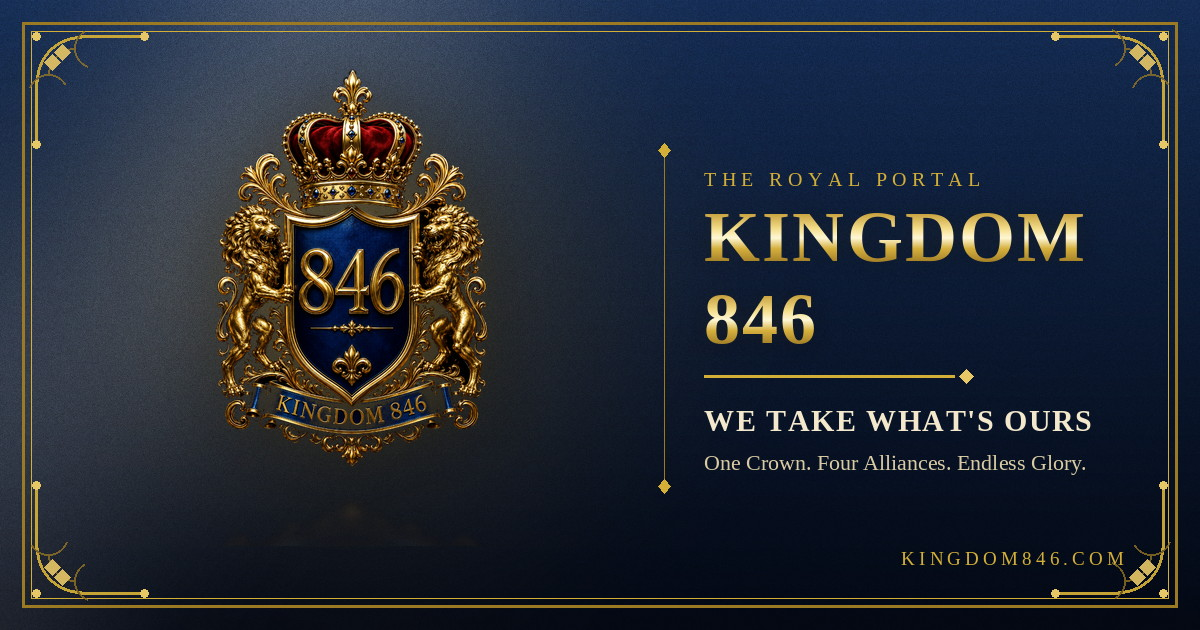
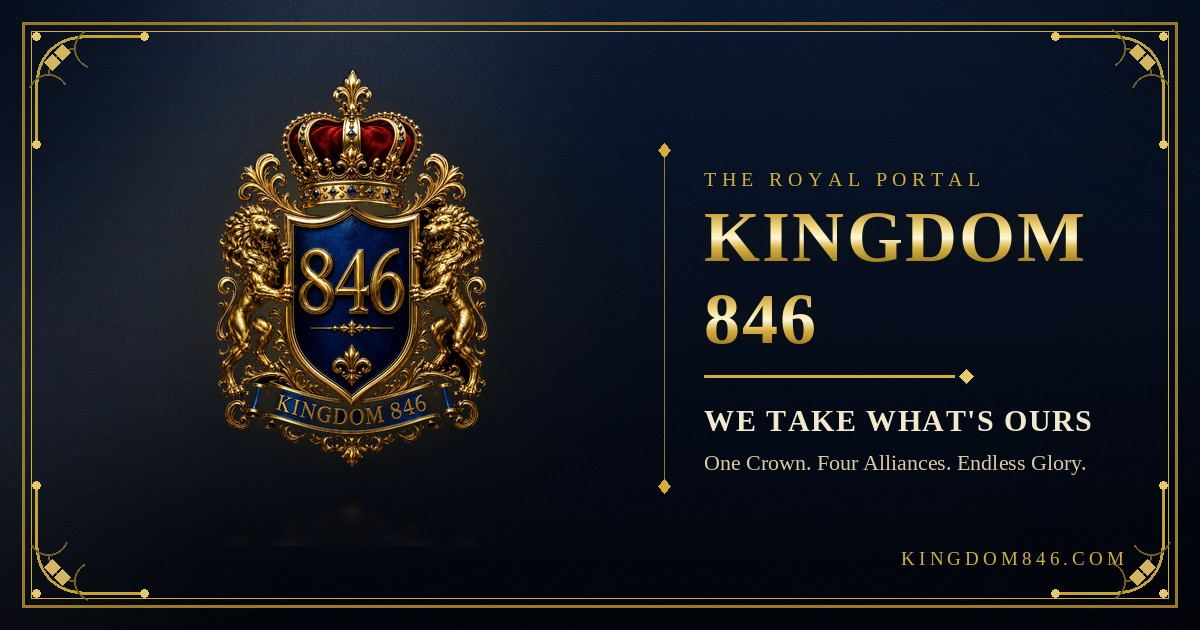
Take the share card darker
The field read as mid navy at full size but the look that carries at
thumbnail size -- which is the size a share card is actually seen at --
is near-black, with the crest and the gold as the only lit objects.

Field drops to roughly RGB 8/18/36, the light pool tightens so it lights
the crest without lifting the whole card, the lacquer sheen quietens and
the vignette closes in.

Claude-Session: https://claude.ai/code/session_015MR5y5XpDD37ovc6GCGBxk

diff --git a/tools/make-share-card.py b/tools/make-share-card.py
@@ -16,8 +16,8 @@ import random
 
 W, H = 1200, 630
 
-NAVY_HI   = (22, 46, 86)
-NAVY_LO   = (4, 9, 20)
+NAVY_HI   = (12, 26, 50)
+NAVY_LO   = (2, 5, 12)
 GOLD      = (212, 175, 55)
 GOLD_BR   = (232, 199, 102)
 GOLD_DEEP = (156, 122, 36)
@@ -107,22 +107,22 @@ for y in range(H):
 # Pool of warm light for the crest to stand in.
 glow = Image.new("L", (W, H), 0)
 gd = ImageDraw.Draw(glow)
-cx, cy, r = 352, 272, 430
+cx, cy, r = 352, 268, 352
 for i in range(r, 0, -3):
-    gd.ellipse([cx - i, cy - i * 0.94, cx + i, cy + i * 0.94], fill=int(150 * (1 - i / r) ** 1.45))
+    gd.ellipse([cx - i, cy - i * 0.94, cx + i, cy + i * 0.94], fill=int(128 * (1 - i / r) ** 1.75))
 glow = glow.filter(ImageFilter.GaussianBlur(52))
-bg = Image.composite(Image.new("RGB", (W, H), (150, 116, 40)), bg, glow.point(lambda v: int(v * 0.70)))
+bg = Image.composite(Image.new("RGB", (W, H), (150, 116, 40)), bg, glow.point(lambda v: int(v * 0.52)))
 
 # Diagonal sheen, as if light crossed a lacquered surface.
 sheen = Image.new("L", (W, H), 0)
 sd = ImageDraw.Draw(sheen)
-sd.polygon([(-260, H), (330, -120), (600, -120), (10, H)], fill=46)
+sd.polygon([(-260, H), (330, -120), (600, -120), (10, H)], fill=26)
 bg = ImageChops.screen(bg, Image.merge("RGB", (sheen,) * 3).filter(ImageFilter.GaussianBlur(90)))
 
 # Vignette back down to near-black at the corners.
 vig = Image.new("L", (W, H), 0)
-ImageDraw.Draw(vig).ellipse([-W * .14, -H * .32, W * 1.14, H * 1.32], fill=255)
-bg = Image.composite(bg, Image.new("RGB", (W, H), (3, 6, 14)), vig.filter(ImageFilter.GaussianBlur(140)))
+ImageDraw.Draw(vig).ellipse([-W * .06, -H * .20, W * 1.06, H * 1.20], fill=255)
+bg = Image.composite(bg, Image.new("RGB", (W, H), (1, 3, 8)), vig.filter(ImageFilter.GaussianBlur(125)))
 
 # Fine grain -- flat digital gradients are the tell of a cheap card.
 random.seed(846)
